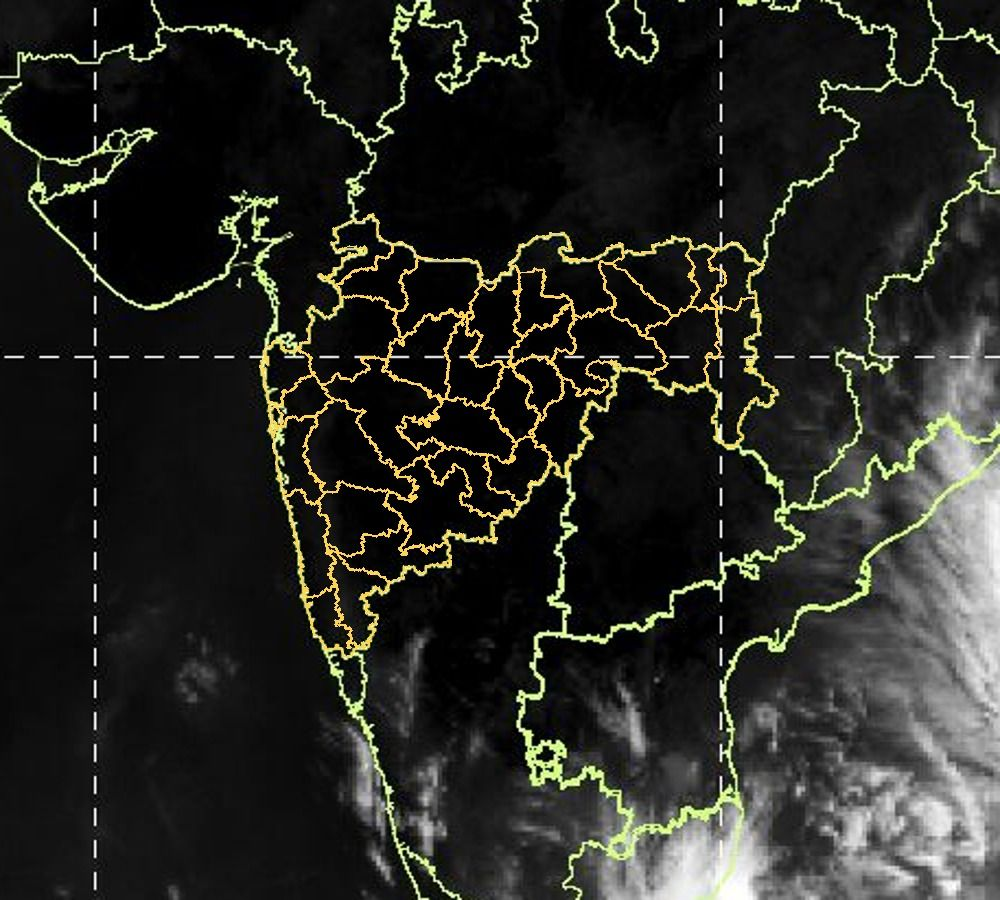
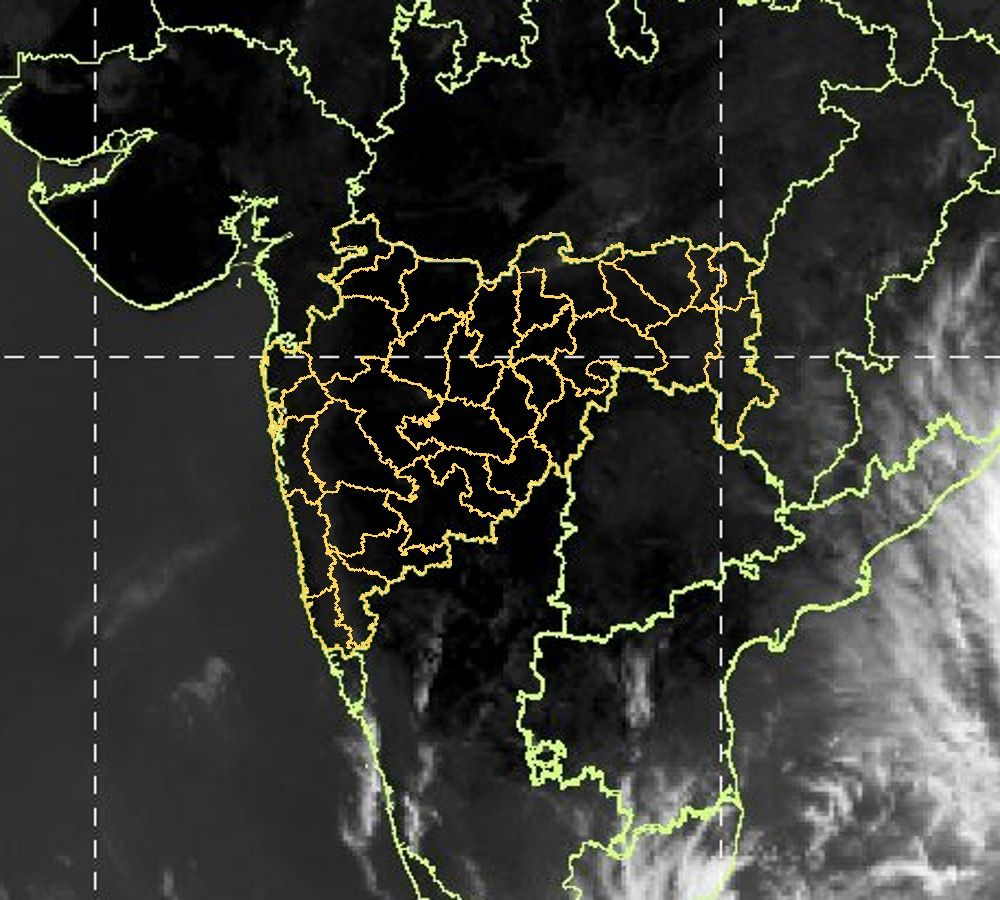
इशारा 2026-10-26 (हवामान विज्ञान)

diff --git a/docs/alerts/2026-10-26-hawaman/index.html b/docs/alerts/2026-10-26-hawaman/index.html
@@ -4,11 +4,11 @@
   <meta charset="UTF-8">
   <meta name="viewport" content="width=device-width, initial-scale=1.0">
   <title>महाराष्ट्र हवामान | सोमवार, २६ ऑक्टो — हवामान इशारा</title>
-  <meta name="description" content="हिरवा इशारा: महाराष्ट्र हवामान | सोमवार, २६ ऑक्टो (२६ ऑक्टोबर २०२६)">
+  <meta name="description" content="माहितीपर विश्लेषण: महाराष्ट्र हवामान | सोमवार, २६ ऑक्टो (२६ ऑक्टोबर २०२६)">
   <link rel="preconnect" href="https://fonts.googleapis.com">
   <link rel="preconnect" href="https://fonts.gstatic.com" crossorigin>
   <link href="https://fonts.googleapis.com/css2?family=Mukta:wght@400;500;600;700&family=Noto+Serif+Devanagari:wght@600;700&display=swap" rel="stylesheet">
-  <link rel="stylesheet" href="../../static/css/style.css?v=3c61bd83">
+  <link rel="stylesheet" href="../../static/css/style.css?v=f237c7a0">
 </head>
 <body>
   <header class="site-header">
@@ -34,8 +34,8 @@
   <main class="wrap main">
 <article class="article">
   <p class="muted"><a href="../../alerts/index.html">← सर्व इशारे</a></p>
-  <div class="alert-banner level-green">
-    <span class="badge badge-green">हिरवा इशारा · कोणताही इशारा नाही</span>
+  <div class="alert-banner level-info">
+    <span class="badge badge-info">माहितीपर विश्लेषण</span>
     <h1>महाराष्ट्र हवामान | सोमवार, २६ ऑक्टो</h1>
     <dl class="alert-facts">
       <div><dt>दिनांक</dt><dd><time datetime="2026-10-26">सोमवार, २६ ऑक्टोबर २०२६</time></dd></div>
@@ -89,12 +89,12 @@
     </div>
 </details>  </section>
   <div class="prose"><p><strong>अल्पकालीन विश्लेषण (१–३ दिवस)</strong> · वैयक्तिक विश्लेषणावर आधारित</p>
-<p>✅ हवामान विभाग: आज राज्यात कोणताही इशारा नाही<br />
-☀ कोकण: कोरडे हवामान<br />
+<p>☀ कोकण: कोरडे हवामान<br />
 ☀ म. महाराष्ट्र: कोरडे हवामान<br />
 ☀ मराठवाडा: कोरडे हवामान<br />
 ☀ विदर्भ: कोरडे हवामान<br />
-🌀 पूर्व-मध्य बंगालच्या उपसागरात तीव्र कमी दाबाचे क्षेत्र आहे</p>
+🌀 पूर्व-मध्य बंगालच्या उपसागरात तीव्र कमी दाबाचे क्षेत्र (डिप्रेशन) आहे<br />
+🛰 उपग्रह: राज्यावर आकाश बहुतांश निरभ्र</p>
 <p><img src="../../static/images/alerts/2026-10-26/1_card.jpg" alt="अल्पकालीन विश्लेषण (१–३ दिवस)" /></p>
 <h3>हवामानामागचे कारण</h3>
 <p>🌀 वाऱ्यांची स्थिती व कारणमीमांसा:</p>
@@ -104,11 +104,7 @@
 <p>• महाराष्ट्रावर सुमारे १.५ किमी उंचीवर ईशान्येकडून कोरडे वारे; हवेच्या मधल्या थरात आर्द्रता फक्त ४०% असल्याने ढग फारसे तयार होत नाहीत<br />
 • उत्तर भारतात २७ ऑक्टो पासून पश्चिमी विक्षोभ; तो पुढे सरकल्यानंतर उत्तरेकडील थंड वाऱ्यांमुळे राज्यात किमान तापमानात घट होऊ शकते</p>
 <p>• पुढील काळात हवेच्या मधल्या थरातील बाष्प वाढत आहे</p>
-<p>🏙 आज शहरांचे कमाल/किमान तापमान (हवामान विभाग):<br />
-मुंबई ३६/२६, रत्नागिरी ३५/२४, पुणे ३५/१७, नाशिक ३५/१८, कोल्हापूर ३४/२२, छ. ३५/१९, नागपूर ३४/१७</p>
 <p>📌 निरीक्षणे:<br />
-🌡 काल सर्वाधिक: मुंबई (सांताक्रूझ) ३६.५°<br />
-❄ नीचांकी: जळगाव १५.४°<br />
 🛰 उपग्रह: राज्यावर आकाश बहुतांश निरभ्र (कोकण १%, मध्य महाराष्ट्र १%, मराठवाडा ०%, विदर्भ १% ढगाच्छादन)</p>
 <p>ℹ स्रोत: भारतीय हवामान विभाग; युरोपियन (ECMWF), अमेरिकन (GFS), जर्मन (ICON) मॉडेल<br />
 ⚠ हे मॉडेल-आधारित विश्लेषण आहे. अधिकृत इशाऱ्यांसाठी भारतीय हवामान विभाग (IMD) व स्थानिक प्रशासनाच्या सूचना पाहा.</p>
@@ -116,7 +112,7 @@
 <p><img src="../../static/images/alerts/2026-10-26/3_satellite_insat.jpg" alt="वाऱ्यांची स्थिती व दाब प्रणाली" /></p>
 <h2>सविस्तर हवामान विश्लेषण</h2>
 <h3>अल्पकालीन विश्लेषण (१–३ दिवस)</h3>
-<p>नमस्कार! आज सोमवार, २६ ऑक्टोबर. पाहूया महाराष्ट्राचे हवामान विश्लेषण. हवामान विभागाने आज राज्यात कोणताही इशारा दिलेला नाही. कोकण: कोरडे हवामान. कमाल तापमान सुमारे ३६ आणि किमान २२ अंश सेल्सिअस. मध्य महाराष्ट्र: कोरडे हवामान. कमाल तापमान सुमारे ३५ आणि किमान २० अंश सेल्सिअस. मराठवाडा: कोरडे हवामान. कमाल तापमान सुमारे ३३ आणि किमान १९ अंश सेल्सिअस. विदर्भ: कोरडे हवामान. कमाल तापमान सुमारे ३४ आणि किमान १८ अंश सेल्सिअस. काल राज्यातील सर्वाधिक तापमान मुंबई (सांताक्रूझ) येथे ३६.५ अंश (सरासरीपेक्षा २.३° जास्त) नोंदले गेले. आता पाहूया हवामानामागचे कारण, म्हणजेच वाऱ्यांची स्थिती. पूर्व-मध्य बंगालच्या उपसागरात तीव्र कमी दाबाचे क्षेत्र (डिप्रेशन) आहे; ते चक्रीवादळसदृश प्रणाली म्हणून तीव्र होण्याचे संकेत; प्रणाली वायव्येकडे (पूर्व भारत) सरकण्याची शक्यता (मॉडेल संकेत; IMD च्या अधिकृत माहितीकडे लक्ष ठेवा). या प्रणालीमुळे राज्यात ढगाळ हवामान व पावसाची शक्यता वाढू शकते. पूर्व-मध्य अरबी समुद्रात २७ ऑक्टो दरम्यान कमी दाबाचे क्षेत्र तयार होण्याचे संकेत; प्रणाली वायव्येकडे (ईशान्य अरबी समुद्र) सरकण्याची शक्यता. नैऋत्य बंगालच्या उपसागरात कमी दाबाचे क्षेत्र आहे. महाराष्ट्रावर सुमारे १.५ किमी उंचीवर ईशान्येकडून कोरडे वारे; हवेच्या मधल्या थरात आर्द्रता फक्त ४०% असल्याने ढग फारसे तयार होत नाहीत. उत्तर भारतात २७ ऑक्टो पासून पश्चिमी विक्षोभ; तो पुढे सरकल्यानंतर उत्तरेकडील थंड वाऱ्यांमुळे राज्यात किमान तापमानात घट होऊ शकते. पुढील काळात हवेच्या मधल्या थरातील बाष्प वाढत आहे.</p>
+<p>नमस्कार! आज सोमवार, २६ ऑक्टोबर. पाहूया महाराष्ट्राचे हवामान विश्लेषण. कोकण: कोरडे हवामान. कमाल तापमान सुमारे ३६ आणि किमान २२ अंश सेल्सिअस. मध्य महाराष्ट्र: कोरडे हवामान. कमाल तापमान सुमारे ३५ आणि किमान २० अंश सेल्सिअस. मराठवाडा: कोरडे हवामान. कमाल तापमान सुमारे ३३ आणि किमान १९ अंश सेल्सिअस. विदर्भ: कोरडे हवामान. कमाल तापमान सुमारे ३४ आणि किमान १८ अंश सेल्सिअस. आता पाहूया हवामानामागचे कारण, म्हणजेच वाऱ्यांची स्थिती. पूर्व-मध्य बंगालच्या उपसागरात तीव्र कमी दाबाचे क्षेत्र (डिप्रेशन) आहे; ते चक्रीवादळसदृश प्रणाली म्हणून तीव्र होण्याचे संकेत; प्रणाली वायव्येकडे (पूर्व भारत) सरकण्याची शक्यता (मॉडेल संकेत; IMD च्या अधिकृत माहितीकडे लक्ष ठेवा). या प्रणालीमुळे राज्यात ढगाळ हवामान व पावसाची शक्यता वाढू शकते. पूर्व-मध्य अरबी समुद्रात २७ ऑक्टो दरम्यान कमी दाबाचे क्षेत्र तयार होण्याचे संकेत; प्रणाली वायव्येकडे (ईशान्य अरबी समुद्र) सरकण्याची शक्यता. नैऋत्य बंगालच्या उपसागरात कमी दाबाचे क्षेत्र आहे. महाराष्ट्रावर सुमारे १.५ किमी उंचीवर ईशान्येकडून कोरडे वारे; हवेच्या मधल्या थरात आर्द्रता फक्त ४०% असल्याने ढग फारसे तयार होत नाहीत. उत्तर भारतात २७ ऑक्टो पासून पश्चिमी विक्षोभ; तो पुढे सरकल्यानंतर उत्तरेकडील थंड वाऱ्यांमुळे राज्यात किमान तापमानात घट होऊ शकते. पुढील काळात हवेच्या मधल्या थरातील बाष्प वाढत आहे.</p>
 <h3>मध्यम कालावधी विश्लेषण (४–१० दिवस)</h3>
 <p>आता पुढील आठवड्याचा, म्हणजे २९ ऑक्टो – ४ नोव्हें या काळाचे विश्लेषण. युरोपियन हवामान केंद्राच्या ५१ वेगवेगळ्या संभाव्य मॉडेल-परिणामांवर आधारित. कोकण: पावसाची शक्यता मध्यम. मध्य महाराष्ट्र: पावसाची शक्यता अधिक (२ नोव्हें जास्त). मराठवाडा: पावसाची शक्यता खूप अधिक (२ नोव्हें जास्त). विदर्भ: पावसाची शक्यता अधिक (२९ ऑक्टो जास्त).  तापमानात विशेष बदल नाही. या काळातील वाऱ्यांची स्थिती: नैऋत्य बंगालच्या उपसागरात १ नोव्हें दरम्यान तीव्र कमी दाबाचे क्षेत्र (डिप्रेशन) तयार होण्याचे संकेत; प्रणाली वायव्येकडे (महाराष्ट्र) सरकण्याची शक्यता (मॉडेल संकेत; IMD च्या अधिकृत माहितीकडे लक्ष ठेवा). या प्रणालीमुळे राज्यात ढगाळ हवामान व पावसाची शक्यता वाढू शकते. २९ ऑक्टो रोजी पूर्व भारतावर असलेली तीव्र कमी दाबाचे क्षेत्र (डिप्रेशन) उत्तरेकडे (मध्य भारत) सरकण्याची शक्यता (मॉडेल संकेत; IMD च्या अधिकृत माहितीकडे लक्ष ठेवा). महाराष्ट्रावर २९ ऑक्टो दरम्यान कमी दाबाचे क्षेत्र तयार होण्याचे संकेत. महाराष्ट्रावर सुमारे १.५ किमी उंचीवर ईशान्येकडून वारे.</p>
 <h3>विस्तारित विश्लेषण (२–४ आठवडे)</h3>

diff --git a/docs/index.html b/docs/index.html
@@ -8,7 +8,7 @@
   <link rel="preconnect" href="https://fonts.googleapis.com">
   <link rel="preconnect" href="https://fonts.gstatic.com" crossorigin>
   <link href="https://fonts.googleapis.com/css2?family=Mukta:wght@400;500;600;700&family=Noto+Serif+Devanagari:wght@600;700&display=swap" rel="stylesheet">
-  <link rel="stylesheet" href="./static/css/style.css?v=3c61bd83">
+  <link rel="stylesheet" href="./static/css/style.css?v=f237c7a0">
 </head>
 <body>
   <header class="site-header">
@@ -34,7 +34,7 @@
   <main class="wrap main">
 <section class="hero">
   <div class="hero-photo">
-    <img src="./static/images/profile.jpg?v=3c61bd83" alt="अरविंद पागिरे" width="200" height="200">
+    <img src="./static/images/profile.jpg?v=f237c7a0" alt="अरविंद पागिरे" width="200" height="200">
   </div>
   <div class="hero-text">
     <p class="eyebrow">हवामानशास्त्रज्ञ · AI-आधारित हवामान अंदाज · हायब्रिड मॉडेलिंग</p>
@@ -60,9 +60,9 @@
     <h2>ताजा हवामान इशारा</h2>
     <a href="./alerts/index.html">सर्व इशारे →</a>
   </div>
-    <article class="alert-card level-green">
+    <article class="alert-card level-info">
   <div class="alert-card-top">
-    <span class="badge badge-green">हिरवा इशारा · कोणताही इशारा नाही</span>
+    <span class="badge badge-info">माहितीपर विश्लेषण</span>
     <time datetime="2026-10-26" class="muted">सोमवार, २६ ऑक्टोबर २०२६</time>
   </div>
   <h3><a href="./alerts/2026-10-26-hawaman/index.html">महाराष्ट्र हवामान | सोमवार, २६ ऑक्टो</a></h3>

diff --git a/docs/alerts/index.html b/docs/alerts/index.html
@@ -8,7 +8,7 @@
   <link rel="preconnect" href="https://fonts.googleapis.com">
   <link rel="preconnect" href="https://fonts.gstatic.com" crossorigin>
   <link href="https://fonts.googleapis.com/css2?family=Mukta:wght@400;500;600;700&family=Noto+Serif+Devanagari:wght@600;700&display=swap" rel="stylesheet">
-  <link rel="stylesheet" href="../static/css/style.css?v=3c61bd83">
+  <link rel="stylesheet" href="../static/css/style.css?v=f237c7a0">
 </head>
 <body>
   <header class="site-header">
@@ -49,9 +49,9 @@
 </details>
 
 <div class="stack">
-<article class="alert-card level-green">
+<article class="alert-card level-info">
   <div class="alert-card-top">
-    <span class="badge badge-green">हिरवा इशारा · कोणताही इशारा नाही</span>
+    <span class="badge badge-info">माहितीपर विश्लेषण</span>
     <time datetime="2026-10-26" class="muted">सोमवार, २६ ऑक्टोबर २०२६</time>
   </div>
   <h3><a href="../alerts/2026-10-26-hawaman/index.html">महाराष्ट्र हवामान | सोमवार, २६ ऑक्टो</a></h3>

diff --git a/docs/alerts/2026-10-25-hawaman/index.html b/docs/alerts/2026-10-25-hawaman/index.html
@@ -8,7 +8,7 @@
   <link rel="preconnect" href="https://fonts.googleapis.com">
   <link rel="preconnect" href="https://fonts.gstatic.com" crossorigin>
   <link href="https://fonts.googleapis.com/css2?family=Mukta:wght@400;500;600;700&family=Noto+Serif+Devanagari:wght@600;700&display=swap" rel="stylesheet">
-  <link rel="stylesheet" href="../../static/css/style.css?v=3c61bd83">
+  <link rel="stylesheet" href="../../static/css/style.css?v=f237c7a0">
 </head>
 <body>
   <header class="site-header">

diff --git a/docs/contact/thanks/index.html b/docs/contact/thanks/index.html
@@ -8,7 +8,7 @@
   <link rel="preconnect" href="https://fonts.googleapis.com">
   <link rel="preconnect" href="https://fonts.gstatic.com" crossorigin>
   <link href="https://fonts.googleapis.com/css2?family=Mukta:wght@400;500;600;700&family=Noto+Serif+Devanagari:wght@600;700&display=swap" rel="stylesheet">
-  <link rel="stylesheet" href="../../static/css/style.css?v=3c61bd83">
+  <link rel="stylesheet" href="../../static/css/style.css?v=f237c7a0">
 </head>
 <body>
   <header class="site-header">

diff --git a/docs/about/index.html b/docs/about/index.html
@@ -8,7 +8,7 @@
   <link rel="preconnect" href="https://fonts.googleapis.com">
   <link rel="preconnect" href="https://fonts.gstatic.com" crossorigin>
   <link href="https://fonts.googleapis.com/css2?family=Mukta:wght@400;500;600;700&family=Noto+Serif+Devanagari:wght@600;700&display=swap" rel="stylesheet">
-  <link rel="stylesheet" href="../static/css/style.css?v=3c61bd83">
+  <link rel="stylesheet" href="../static/css/style.css?v=f237c7a0">
 </head>
 <body>
   <header class="site-header">

diff --git a/docs/blog/index.html b/docs/blog/index.html
@@ -8,7 +8,7 @@
   <link rel="preconnect" href="https://fonts.googleapis.com">
   <link rel="preconnect" href="https://fonts.gstatic.com" crossorigin>
   <link href="https://fonts.googleapis.com/css2?family=Mukta:wght@400;500;600;700&family=Noto+Serif+Devanagari:wght@600;700&display=swap" rel="stylesheet">
-  <link rel="stylesheet" href="../static/css/style.css?v=3c61bd83">
+  <link rel="stylesheet" href="../static/css/style.css?v=f237c7a0">
 </head>
 <body>
   <header class="site-header">

diff --git a/docs/contact/index.html b/docs/contact/index.html
@@ -8,7 +8,7 @@
   <link rel="preconnect" href="https://fonts.googleapis.com">
   <link rel="preconnect" href="https://fonts.gstatic.com" crossorigin>
   <link href="https://fonts.googleapis.com/css2?family=Mukta:wght@400;500;600;700&family=Noto+Serif+Devanagari:wght@600;700&display=swap" rel="stylesheet">
-  <link rel="stylesheet" href="../static/css/style.css?v=3c61bd83">
+  <link rel="stylesheet" href="../static/css/style.css?v=f237c7a0">
 </head>
 <body>
   <header class="site-header">

diff --git a/docs/forecast/index.html b/docs/forecast/index.html
@@ -8,7 +8,7 @@
   <link rel="preconnect" href="https://fonts.googleapis.com">
   <link rel="preconnect" href="https://fonts.gstatic.com" crossorigin>
   <link href="https://fonts.googleapis.com/css2?family=Mukta:wght@400;500;600;700&family=Noto+Serif+Devanagari:wght@600;700&display=swap" rel="stylesheet">
-  <link rel="stylesheet" href="../static/css/style.css?v=3c61bd83">
+  <link rel="stylesheet" href="../static/css/style.css?v=f237c7a0">
 </head>
 <body>
   <header class="site-header">

diff --git a/docs/publications/index.html b/docs/publications/index.html
@@ -8,7 +8,7 @@
   <link rel="preconnect" href="https://fonts.googleapis.com">
   <link rel="preconnect" href="https://fonts.gstatic.com" crossorigin>
   <link href="https://fonts.googleapis.com/css2?family=Mukta:wght@400;500;600;700&family=Noto+Serif+Devanagari:wght@600;700&display=swap" rel="stylesheet">
-  <link rel="stylesheet" href="../static/css/style.css?v=3c61bd83">
+  <link rel="stylesheet" href="../static/css/style.css?v=f237c7a0">
 </head>
 <body>
   <header class="site-header">

diff --git a/docs/404.html b/docs/404.html
@@ -8,7 +8,7 @@
   <link rel="preconnect" href="https://fonts.googleapis.com">
   <link rel="preconnect" href="https://fonts.gstatic.com" crossorigin>
   <link href="https://fonts.googleapis.com/css2?family=Mukta:wght@400;500;600;700&family=Noto+Serif+Devanagari:wght@600;700&display=swap" rel="stylesheet">
-  <link rel="stylesheet" href="./static/css/style.css?v=3c61bd83">
+  <link rel="stylesheet" href="./static/css/style.css?v=f237c7a0">
 </head>
 <body>
   <header class="site-header">

diff --git a/content/alerts/2026-10-26-hawaman.md b/content/alerts/2026-10-26-hawaman.md
@@ -1,7 +1,7 @@
 ---
 title: "महाराष्ट्र हवामान | सोमवार, २६ ऑक्टो"
 date: 2026-10-26
-level: green
+level: info
 valid: "२६ ऑक्टोबर २०२६ — अल्पकालीन विश्लेषण (१–३ दिवस)"
 regions: ["कोकण", "मध्य महाराष्ट्र", "मराठवाडा", "विदर्भ"]
 hazards: []
@@ -12,12 +12,12 @@ source: hawaman-vidnyan
 
 **अल्पकालीन विश्लेषण (१–३ दिवस)** · वैयक्तिक विश्लेषणावर आधारित
 
-✅ हवामान विभाग: आज राज्यात कोणताही इशारा नाही  
 ☀ कोकण: कोरडे हवामान  
 ☀ म. महाराष्ट्र: कोरडे हवामान  
 ☀ मराठवाडा: कोरडे हवामान  
 ☀ विदर्भ: कोरडे हवामान  
-🌀 पूर्व-मध्य बंगालच्या उपसागरात तीव्र कमी दाबाचे क्षेत्र आहे
+🌀 पूर्व-मध्य बंगालच्या उपसागरात तीव्र कमी दाबाचे क्षेत्र (डिप्रेशन) आहे  
+🛰 उपग्रह: राज्यावर आकाश बहुतांश निरभ्र
 
 ![अल्पकालीन विश्लेषण (१–३ दिवस)](../../static/images/alerts/2026-10-26/1_card.jpg)
 
@@ -35,12 +35,7 @@ source: hawaman-vidnyan
 
 • पुढील काळात हवेच्या मधल्या थरातील बाष्प वाढत आहे
 
-🏙 आज शहरांचे कमाल/किमान तापमान (हवामान विभाग):  
-मुंबई ३६/२६, रत्नागिरी ३५/२४, पुणे ३५/१७, नाशिक ३५/१८, कोल्हापूर ३४/२२, छ. ३५/१९, नागपूर ३४/१७
-
 📌 निरीक्षणे:  
-🌡 काल सर्वाधिक: मुंबई (सांताक्रूझ) ३६.५°  
-❄ नीचांकी: जळगाव १५.४°  
 🛰 उपग्रह: राज्यावर आकाश बहुतांश निरभ्र (कोकण १%, मध्य महाराष्ट्र १%, मराठवाडा ०%, विदर्भ १% ढगाच्छादन)
 
 ℹ स्रोत: भारतीय हवामान विभाग; युरोपियन (ECMWF), अमेरिकन (GFS), जर्मन (ICON) मॉडेल  
@@ -55,7 +50,7 @@ source: hawaman-vidnyan
 
 
 ### अल्पकालीन विश्लेषण (१–३ दिवस)
-नमस्कार! आज सोमवार, २६ ऑक्टोबर. पाहूया महाराष्ट्राचे हवामान विश्लेषण. हवामान विभागाने आज राज्यात कोणताही इशारा दिलेला नाही. कोकण: कोरडे हवामान. कमाल तापमान सुमारे ३६ आणि किमान २२ अंश सेल्सिअस. मध्य महाराष्ट्र: कोरडे हवामान. कमाल तापमान सुमारे ३५ आणि किमान २० अंश सेल्सिअस. मराठवाडा: कोरडे हवामान. कमाल तापमान सुमारे ३३ आणि किमान १९ अंश सेल्सिअस. विदर्भ: कोरडे हवामान. कमाल तापमान सुमारे ३४ आणि किमान १८ अंश सेल्सिअस. काल राज्यातील सर्वाधिक तापमान मुंबई (सांताक्रूझ) येथे ३६.५ अंश (सरासरीपेक्षा २.३° जास्त) नोंदले गेले. आता पाहूया हवामानामागचे कारण, म्हणजेच वाऱ्यांची स्थिती. पूर्व-मध्य बंगालच्या उपसागरात तीव्र कमी दाबाचे क्षेत्र (डिप्रेशन) आहे; ते चक्रीवादळसदृश प्रणाली म्हणून तीव्र होण्याचे संकेत; प्रणाली वायव्येकडे (पूर्व भारत) सरकण्याची शक्यता (मॉडेल संकेत; IMD च्या अधिकृत माहितीकडे लक्ष ठेवा). या प्रणालीमुळे राज्यात ढगाळ हवामान व पावसाची शक्यता वाढू शकते. पूर्व-मध्य अरबी समुद्रात २७ ऑक्टो दरम्यान कमी दाबाचे क्षेत्र तयार होण्याचे संकेत; प्रणाली वायव्येकडे (ईशान्य अरबी समुद्र) सरकण्याची शक्यता. नैऋत्य बंगालच्या उपसागरात कमी दाबाचे क्षेत्र आहे. महाराष्ट्रावर सुमारे १.५ किमी उंचीवर ईशान्येकडून कोरडे वारे; हवेच्या मधल्या थरात आर्द्रता फक्त ४०% असल्याने ढग फारसे तयार होत नाहीत. उत्तर भारतात २७ ऑक्टो पासून पश्चिमी विक्षोभ; तो पुढे सरकल्यानंतर उत्तरेकडील थंड वाऱ्यांमुळे राज्यात किमान तापमानात घट होऊ शकते. पुढील काळात हवेच्या मधल्या थरातील बाष्प वाढत आहे.
+नमस्कार! आज सोमवार, २६ ऑक्टोबर. पाहूया महाराष्ट्राचे हवामान विश्लेषण. कोकण: कोरडे हवामान. कमाल तापमान सुमारे ३६ आणि किमान २२ अंश सेल्सिअस. मध्य महाराष्ट्र: कोरडे हवामान. कमाल तापमान सुमारे ३५ आणि किमान २० अंश सेल्सिअस. मराठवाडा: कोरडे हवामान. कमाल तापमान सुमारे ३३ आणि किमान १९ अंश सेल्सिअस. विदर्भ: कोरडे हवामान. कमाल तापमान सुमारे ३४ आणि किमान १८ अंश सेल्सिअस. आता पाहूया हवामानामागचे कारण, म्हणजेच वाऱ्यांची स्थिती. पूर्व-मध्य बंगालच्या उपसागरात तीव्र कमी दाबाचे क्षेत्र (डिप्रेशन) आहे; ते चक्रीवादळसदृश प्रणाली म्हणून तीव्र होण्याचे संकेत; प्रणाली वायव्येकडे (पूर्व भारत) सरकण्याची शक्यता (मॉडेल संकेत; IMD च्या अधिकृत माहितीकडे लक्ष ठेवा). या प्रणालीमुळे राज्यात ढगाळ हवामान व पावसाची शक्यता वाढू शकते. पूर्व-मध्य अरबी समुद्रात २७ ऑक्टो दरम्यान कमी दाबाचे क्षेत्र तयार होण्याचे संकेत; प्रणाली वायव्येकडे (ईशान्य अरबी समुद्र) सरकण्याची शक्यता. नैऋत्य बंगालच्या उपसागरात कमी दाबाचे क्षेत्र आहे. महाराष्ट्रावर सुमारे १.५ किमी उंचीवर ईशान्येकडून कोरडे वारे; हवेच्या मधल्या थरात आर्द्रता फक्त ४०% असल्याने ढग फारसे तयार होत नाहीत. उत्तर भारतात २७ ऑक्टो पासून पश्चिमी विक्षोभ; तो पुढे सरकल्यानंतर उत्तरेकडील थंड वाऱ्यांमुळे राज्यात किमान तापमानात घट होऊ शकते. पुढील काळात हवेच्या मधल्या थरातील बाष्प वाढत आहे.
 
 ### मध्यम कालावधी विश्लेषण (४–१० दिवस)
 आता पुढील आठवड्याचा, म्हणजे २९ ऑक्टो – ४ नोव्हें या काळाचे विश्लेषण. युरोपियन हवामान केंद्राच्या ५१ वेगवेगळ्या संभाव्य मॉडेल-परिणामांवर आधारित. कोकण: पावसाची शक्यता मध्यम. मध्य महाराष्ट्र: पावसाची शक्यता अधिक (२ नोव्हें जास्त). मराठवाडा: पावसाची शक्यता खूप अधिक (२ नोव्हें जास्त). विदर्भ: पावसाची शक्यता अधिक (२९ ऑक्टो जास्त).  तापमानात विशेष बदल नाही. या काळातील वाऱ्यांची स्थिती: नैऋत्य बंगालच्या उपसागरात १ नोव्हें दरम्यान तीव्र कमी दाबाचे क्षेत्र (डिप्रेशन) तयार होण्याचे संकेत; प्रणाली वायव्येकडे (महाराष्ट्र) सरकण्याची शक्यता (मॉडेल संकेत; IMD च्या अधिकृत माहितीकडे लक्ष ठेवा). या प्रणालीमुळे राज्यात ढगाळ हवामान व पावसाची शक्यता वाढू शकते. २९ ऑक्टो रोजी पूर्व भारतावर असलेली तीव्र कमी दाबाचे क्षेत्र (डिप्रेशन) उत्तरेकडे (मध्य भारत) सरकण्याची शक्यता (मॉडेल संकेत; IMD च्या अधिकृत माहितीकडे लक्ष ठेवा). महाराष्ट्रावर २९ ऑक्टो दरम्यान कमी दाबाचे क्षेत्र तयार होण्याचे संकेत. महाराष्ट्रावर सुमारे १.५ किमी उंचीवर ईशान्येकडून वारे.
